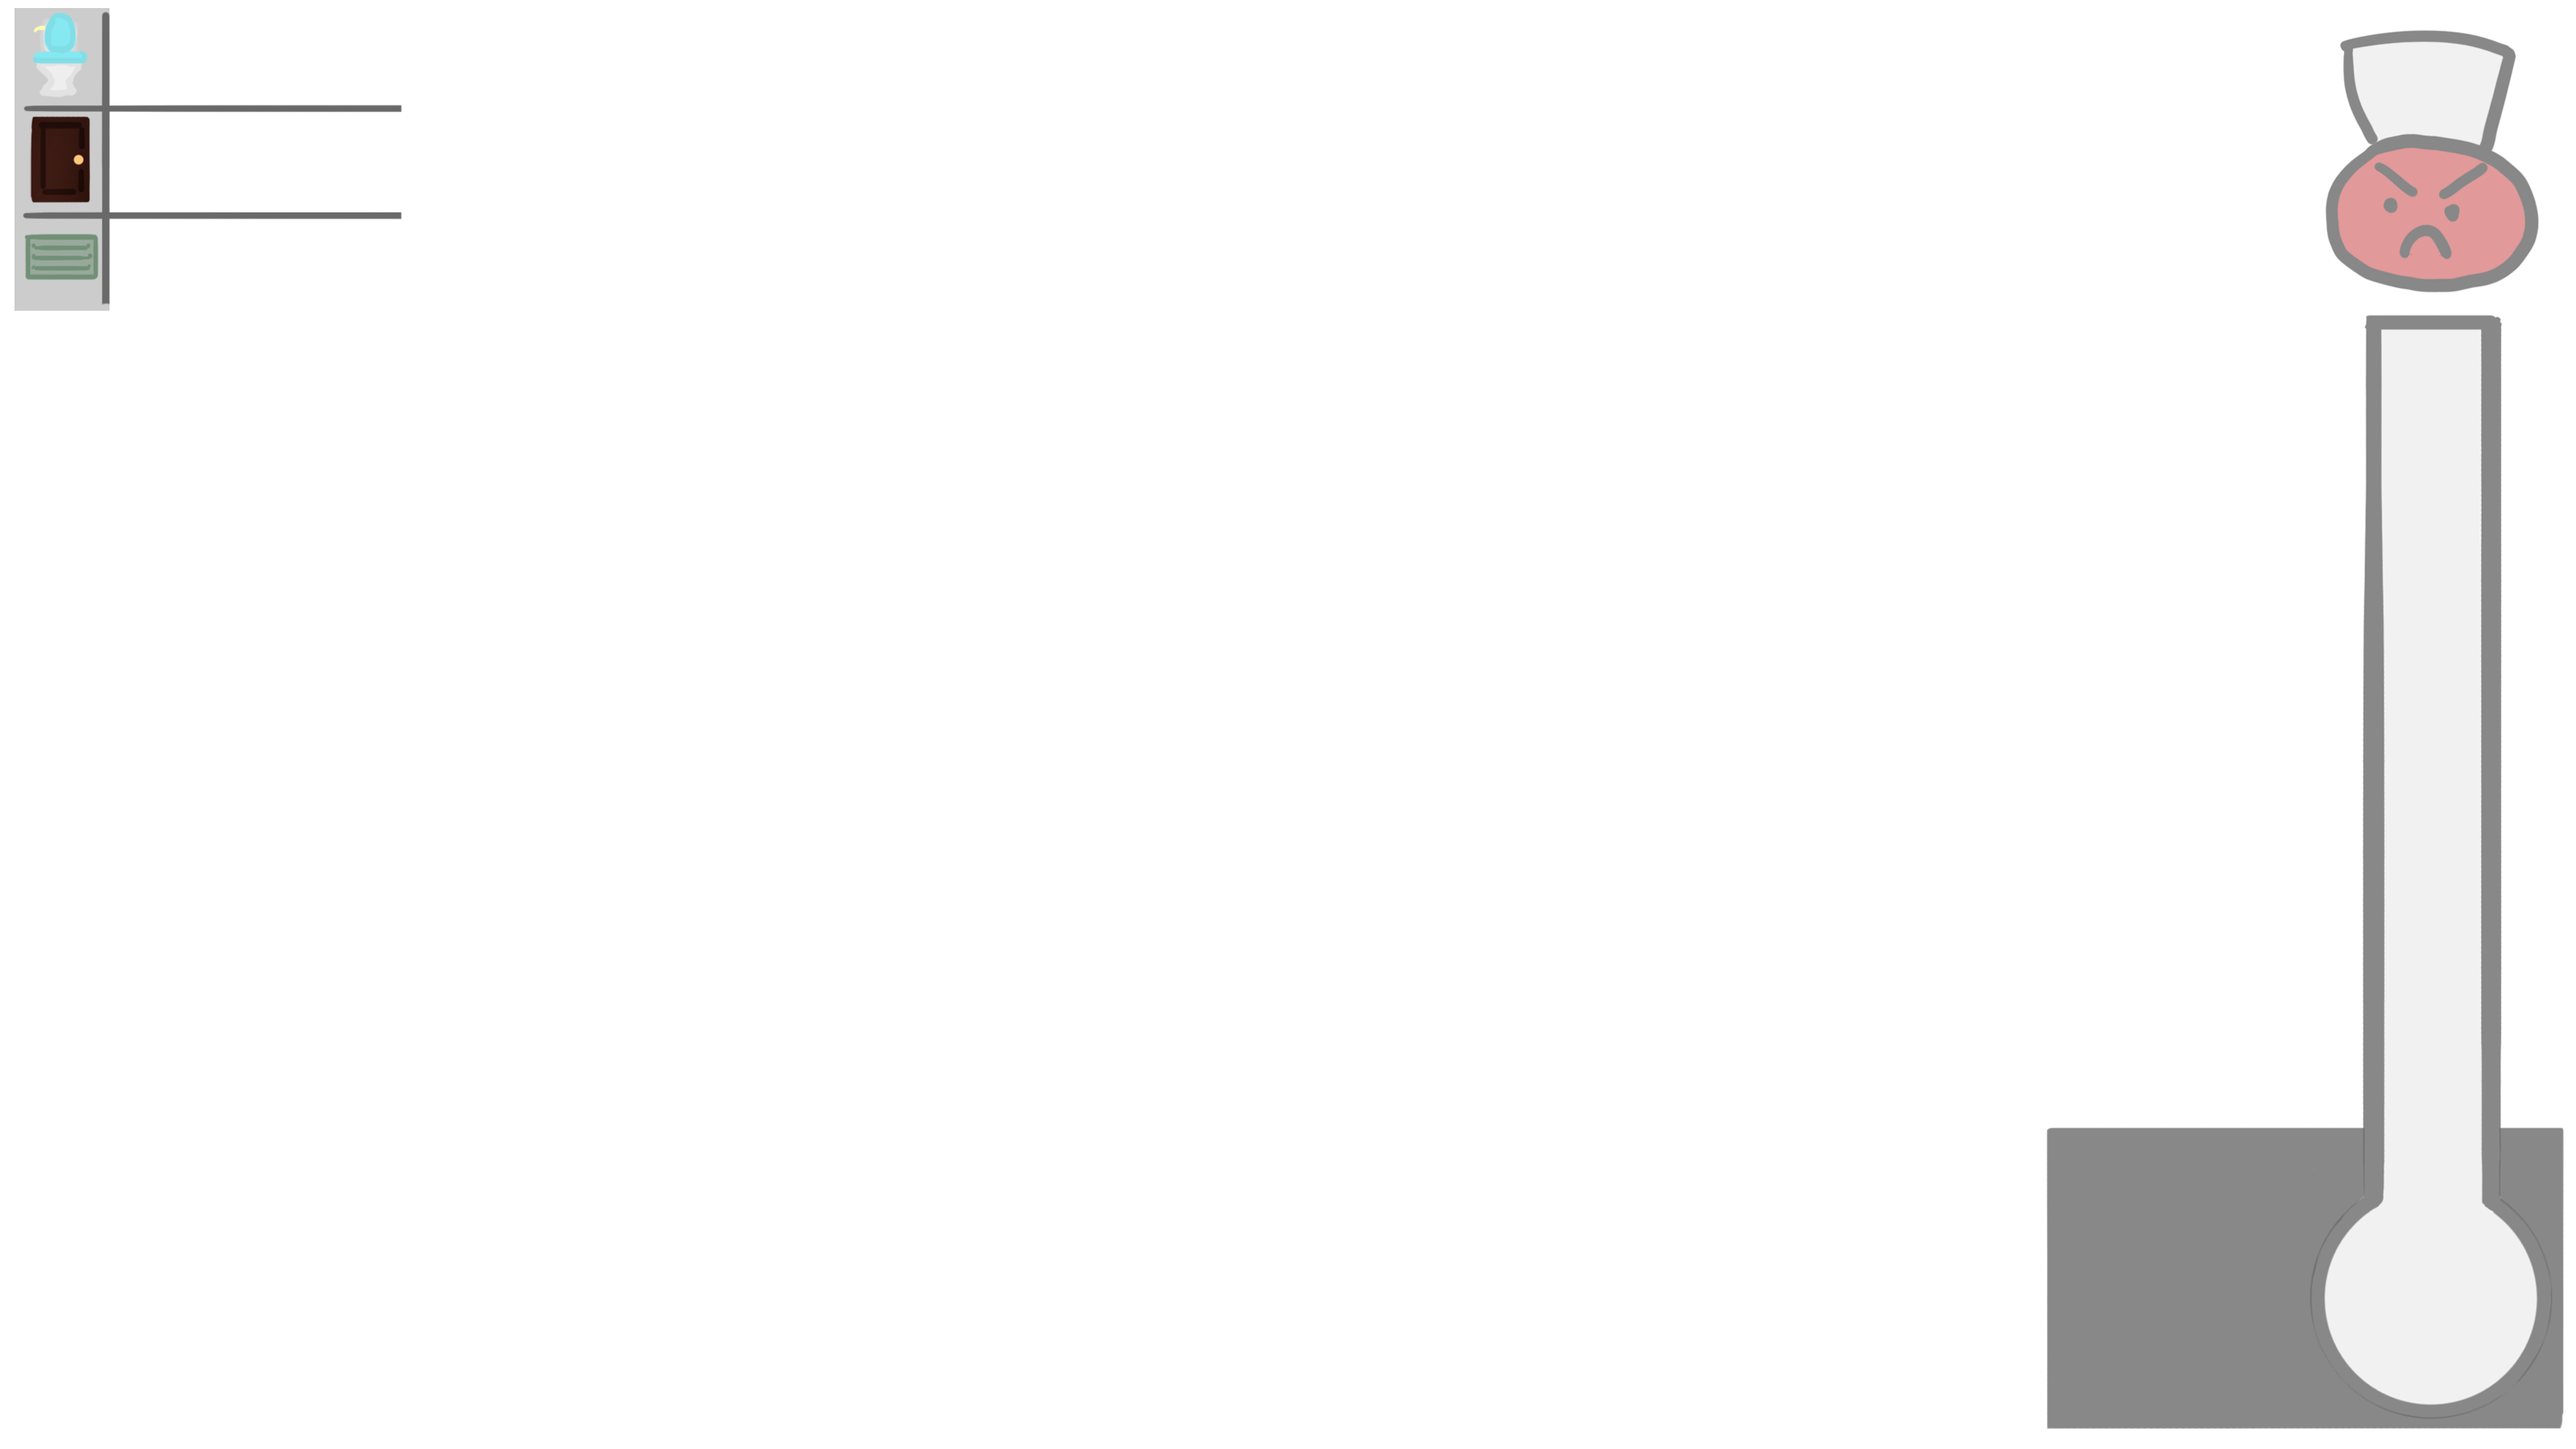
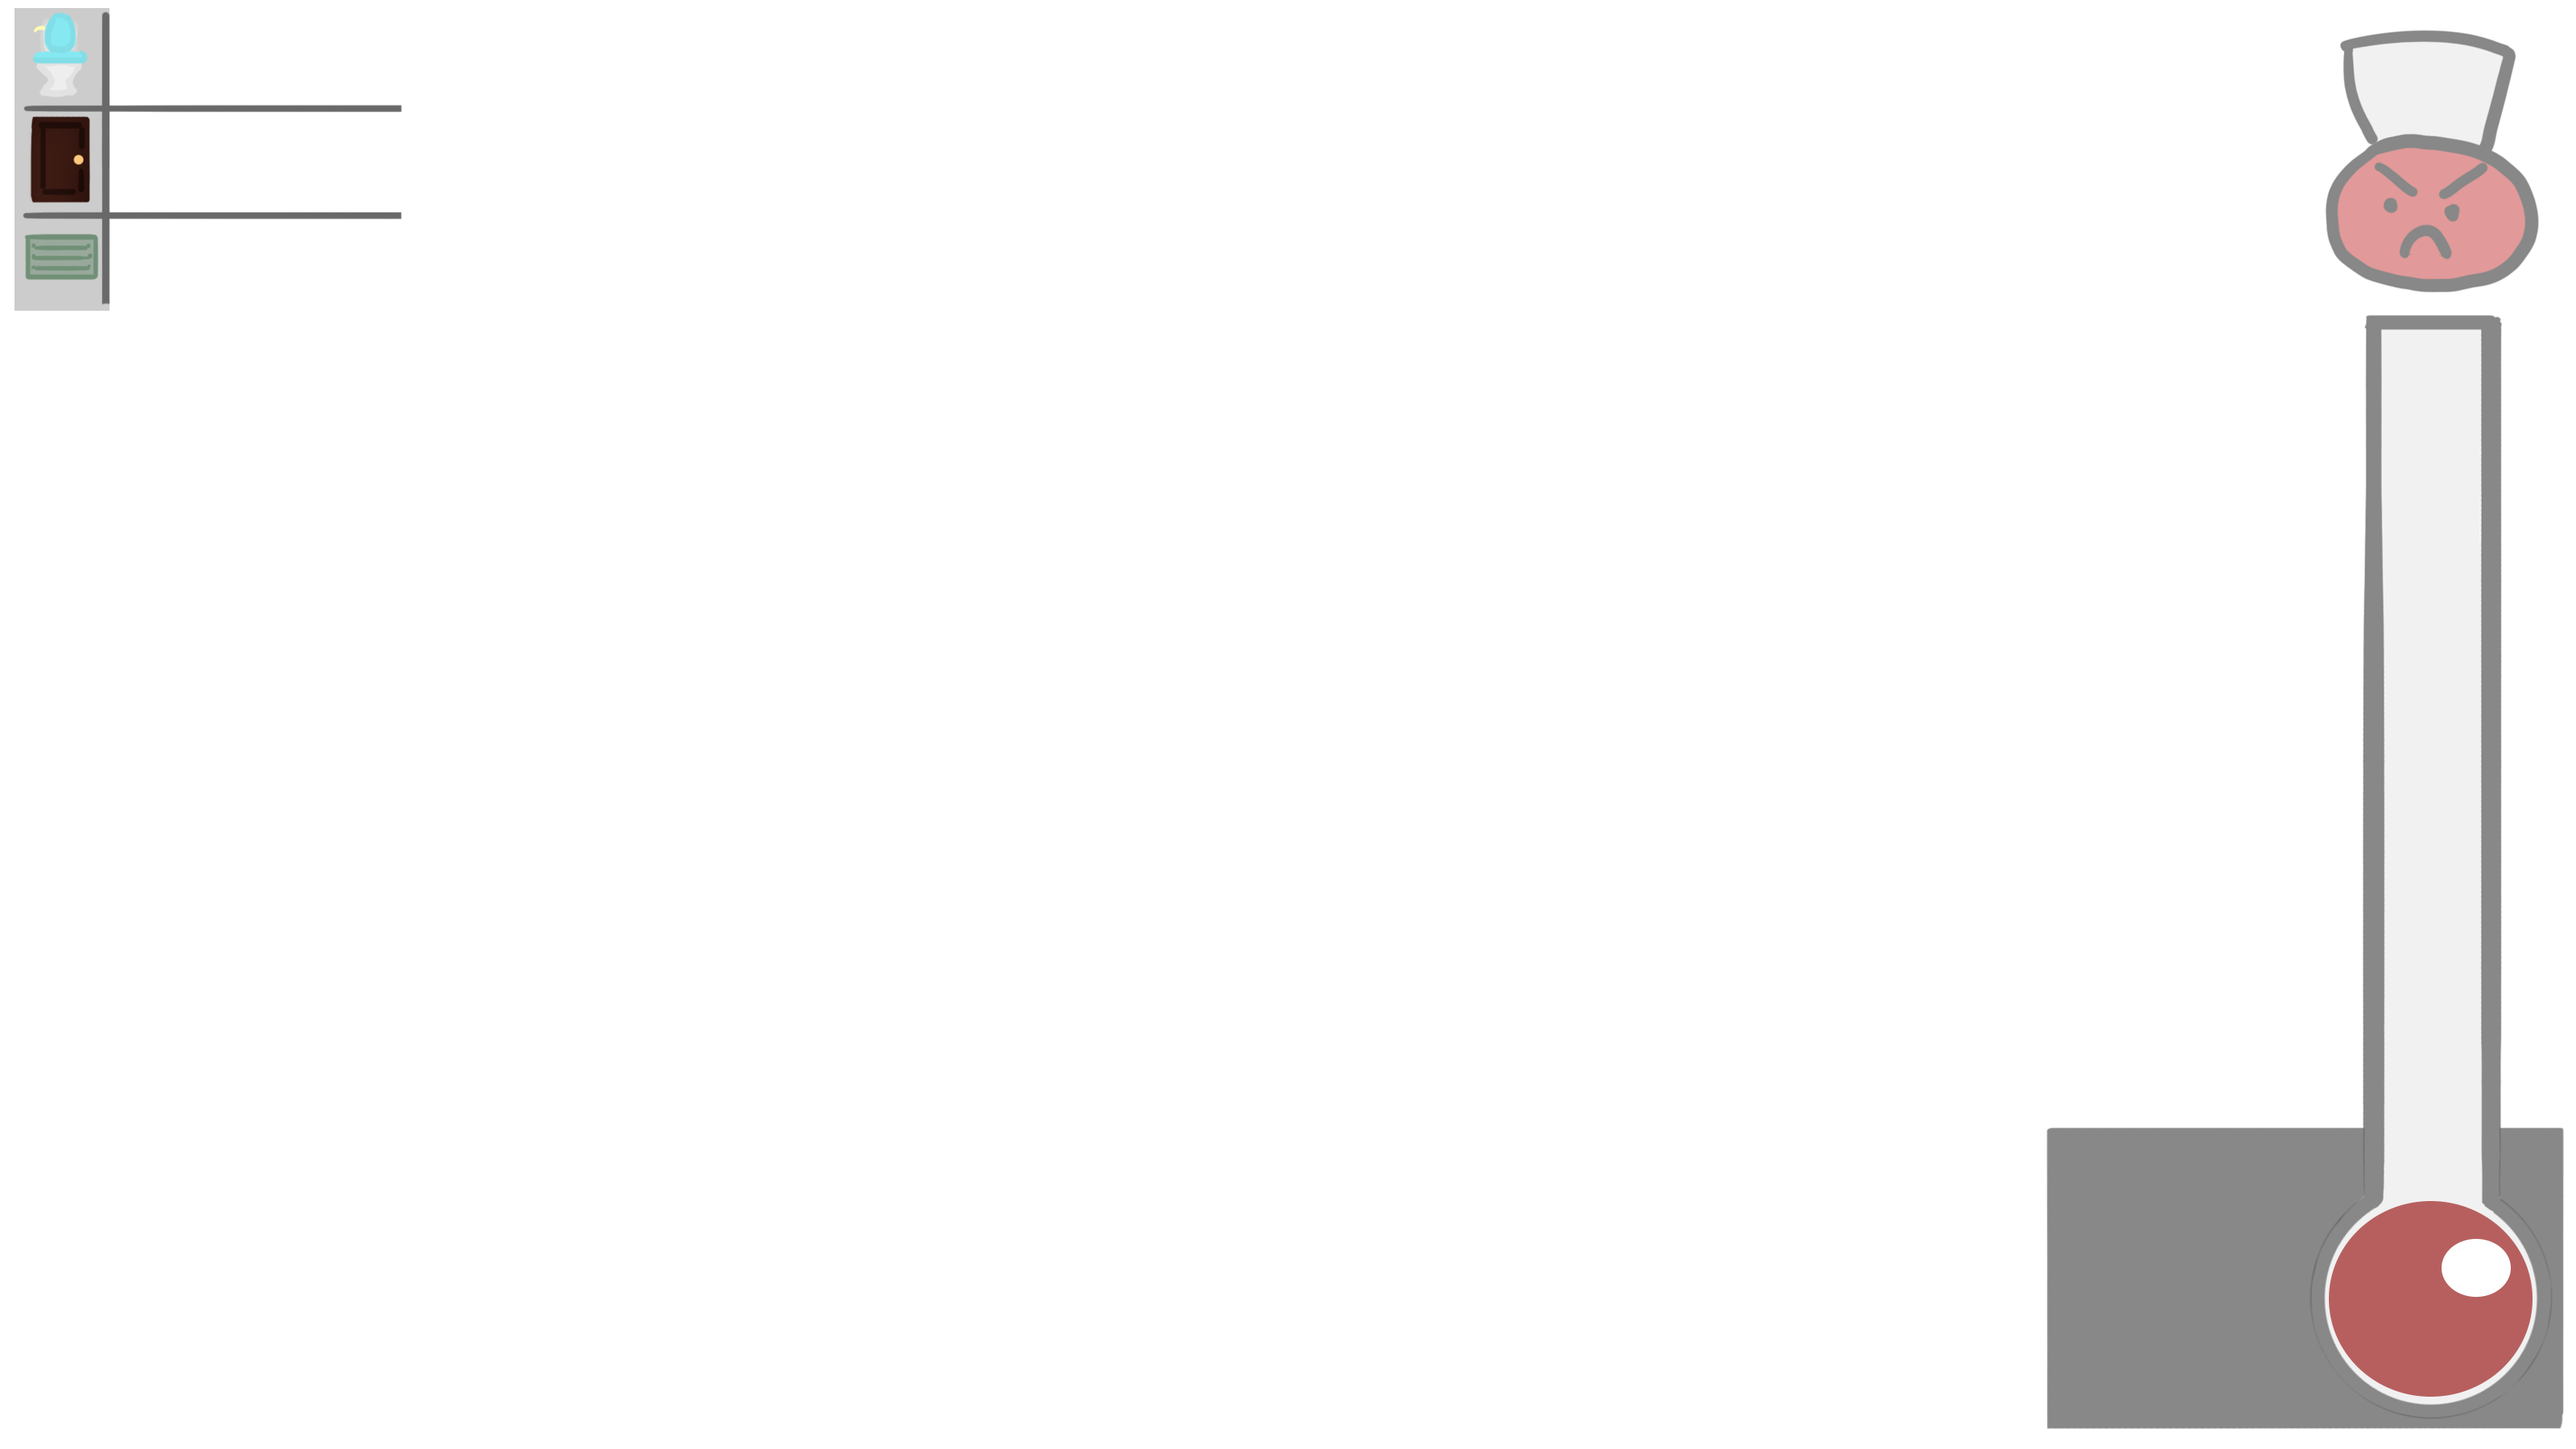
UI now updates on all items, has item prompts. Jail, Box, and Net prompts are bugged

Changed region(s): [[0.9062, 0.8089, 1.0, 0.9644]]

diff --git a/graphics/GraphicsClient/UICanvas.h b/graphics/GraphicsClient/UICanvas.h
@@ -1,7 +1,7 @@
 
 #include "UIObject.h"
 
-#define NUM_ITEMS 42
+#define NUM_ITEMS 52
 #define CANVAS_PATH    "../Canvas/"
 
 #define CANVAS_MDL_PATH		(CANVAS_PATH "canvas.fbx")
@@ -27,7 +27,9 @@
 #define YELLOW_SCREWDRIVER_ITEM_TEX (CANVAS_PATH "yellowScrewdriverItem.png")
 #define APPLE_ITEM_TEX (CANVAS_PATH "appleItem.png")
 #define ORANGE_ITEM_TEX (CANVAS_PATH "orangeItem.png")
-#define BANANA_ITEM_TEX (CANVAS_PATH "bananaItem.png")
+#define BANANA_YELLOW_ITEM_TEX (CANVAS_PATH "bananaItemYellow.png")
+#define BANANA_GREEN_ITEM_TEX (CANVAS_PATH "bananaItemGreen.png")
+#define BANANA_BLACK_ITEM_TEX (CANVAS_PATH "bananaItemBlack.png")
 #define GOALS_TEX (CANVAS_PATH "goals.png")
 #define YELLOW_KEY_GOAL_INCOMPLETE_TEX (CANVAS_PATH "yellowKeyGoalIncomplete.png")
 #define BLUE_KEY_GOAL_INCOMPLETE_TEX (CANVAS_PATH "blueKeyGoalIncomplete.png")
@@ -47,6 +49,15 @@
 #define PLUNGER_GOAL_COMPLETE_TEX (CANVAS_PATH "plungerGoalComplete.png")
 #define ROPE_GOAL_COMPLETE_TEX (CANVAS_PATH "ropeGoalComplete.png")
 #define TOILET_PAPER_GOAL_COMPLETE_TEX (CANVAS_PATH "toiletPaperGoalComplete.png")
+#define PROMPT_JAIL_RESCUE_TEX (CANVAS_PATH "promptRescueMate.png")
+#define PROMPT_SWING_NET_TEX (CANVAS_PATH "promptSwingNet.png")
+#define PROMPT_BOX_SEARCH_TEX (CANVAS_PATH "promptSearchItem.png")
+#define PROMPT_GREEN_BANANA_TEX (CANVAS_PATH "powerup_greenbanana.png")
+#define PROMPT_YELLOW_BANANA_TEX (CANVAS_PATH "powerup_yellowbanana.png")
+#define PROMPT_BLACK_BANANA_TEX (CANVAS_PATH "powerup_blackbanana.png")
+#define PROMPT_APPLE_TEX (CANVAS_PATH "powerup_apple.png")
+#define PROMPT_ORANGE_TEX (CANVAS_PATH "powerup_orange.png")
+
 
 #ifndef UICANVAS_H
 #define UICANVAS_H
@@ -75,7 +86,7 @@ public:
 		YELLOW_SCREWDRIVER_ITEM = 19,
 		APPLE_ITEM = 20,
 		ORANGE_ITEM = 21,
-		BANANA_ITEM = 22,
+		BANANA_YELLOW_ITEM = 22,
 		GOALS = 23,
 		YELLOW_KEY_GOAL_INCOMPLETE = 24,
 		BLUE_KEY_GOAL_INCOMPLETE = 25,
@@ -94,8 +105,17 @@ public:
         TOILET_PAPER_GOAL_INCOMPLETE = 38,
         PLUNGER_GOAL_COMPLETE = 39,
         ROPE_GOAL_COMPLETE = 40,
-        TOILET_PAPER_GOAL_COMPLETE = 41
-
+        TOILET_PAPER_GOAL_COMPLETE = 41,
+		PROMPT_JAIL_RESCUE = 42,
+		PROMPT_SWING_NET = 43,
+		PROMPT_BOX_SEARCH = 44,
+		PROMPT_GREEN_BANANA = 45,
+		PROMPT_YELLOW_BANANA = 46,
+		PROMPT_BLACK_BANANA = 47,
+		PROMPT_ORANGE = 48,
+		PROMPT_APPLE = 49,
+		BANANA_GREEN_ITEM = 50,
+		BANANA_BLACK_ITEM = 51,
 	};
 	void draw(glm::mat4 * V, glm::mat4 * P, glm::mat4 model);
 	void setAngerRatio(float newAngerRatio);

diff --git a/graphics/GraphicsClient/InGameGraphicsEngine.cpp b/graphics/GraphicsClient/InGameGraphicsEngine.cpp
@@ -1175,6 +1175,14 @@ void updateUIElements(GameData * gameData) {
 		}
 	}
 	else {
+		//disable prompts unless item is held
+		uiCanvas->setVisible(UICanvas::PROMPT_GREEN_BANANA, false);
+		uiCanvas->setVisible(UICanvas::PROMPT_YELLOW_BANANA, false);
+		uiCanvas->setVisible(UICanvas::PROMPT_BLACK_BANANA, false);
+		uiCanvas->setVisible(UICanvas::PROMPT_APPLE, false);
+		uiCanvas->setVisible(UICanvas::PROMPT_ORANGE, false);
+
+
 		if (currPlayer->getInventory() == ItemModelType::toiletPaper) {
 			uiCanvas->setItem(UICanvas::TOILET_PAPER_ITEM);
 		}
@@ -1207,19 +1215,57 @@ void updateUIElements(GameData * gameData) {
 		}
 		else if (currPlayer->getInventory() == ItemModelType::apple) {
 			uiCanvas->setItem(UICanvas::APPLE_ITEM);
+
+			uiCanvas->setVisible(UICanvas::PROMPT_APPLE, true);
 		}
 		else if (currPlayer->getInventory() == ItemModelType::orange) {
 			uiCanvas->setItem(UICanvas::ORANGE_ITEM);
+			uiCanvas->setVisible(UICanvas::PROMPT_ORANGE, true);
 		}
 		else if (currPlayer->getInventory() == ItemModelType::bananaPerfect) {
-			uiCanvas->setItem(UICanvas::BANANA_ITEM);
+			uiCanvas->setItem(UICanvas::BANANA_YELLOW_ITEM);
+			uiCanvas->setVisible(UICanvas::PROMPT_YELLOW_BANANA, true);
+		}
+		else if (currPlayer->getInventory() == ItemModelType::bananaGreen) {
+			uiCanvas->setItem(UICanvas::BANANA_GREEN_ITEM);
+			uiCanvas->setVisible(UICanvas::PROMPT_GREEN_BANANA, true);
+		}
+		else if (currPlayer->getInventory() == ItemModelType::bananaVeryRipe) {
+			uiCanvas->setItem(UICanvas::BANANA_BLACK_ITEM);
+			uiCanvas->setVisible(UICanvas::PROMPT_BLACK_BANANA, true);
 		}
 		else {
 			uiCanvas->removeItems();
 		}
+
+		//set goals
+
+		//set prompts
+		if (gameData->getTile(currPlayer->getLocation())->getTileType() == TileType::JAIL && 
+			gameData->getJailTile(currPlayer->getLocation())->getCapturedAnimal() != -1) {
+			uiCanvas->setVisible(UICanvas::PROMPT_JAIL_RESCUE, true);
+		}
+		else {
+			uiCanvas->setVisible(UICanvas::PROMPT_JAIL_RESCUE, false);
+		}
+
+		if (currPlayer->isChef()) {
+			uiCanvas->setVisible(UICanvas::PROMPT_SWING_NET, true);
+		}
+		else {
+			uiCanvas->setVisible(UICanvas::PROMPT_SWING_NET, false);
+		}
+
+		if (gameData->getTile(currPlayer->getLocation())->getTileType() == TileType::BOX){
+			uiCanvas->setVisible(UICanvas::PROMPT_BOX_SEARCH, true);
+		}
+		else {
+			uiCanvas->setVisible(UICanvas::PROMPT_BOX_SEARCH, false);
+		}
+
 	}
 
-	//update Goals
+
 }
 
 void InGameGraphicsEngine::IdleCallback()

diff --git a/graphics/GraphicsClient/UICanvas.cpp b/graphics/GraphicsClient/UICanvas.cpp
@@ -47,8 +47,12 @@ UICanvas::UICanvas(GLuint shaderProgram) {
 	visibleItems[APPLE_ITEM] = false;
 	uiItems[ORANGE_ITEM] = new UIObject(ORANGE_ITEM_TEX);
 	visibleItems[ORANGE_ITEM] = false;
-	uiItems[BANANA_ITEM] = new UIObject(BANANA_ITEM_TEX);
-	visibleItems[BANANA_ITEM] = false;
+	uiItems[BANANA_YELLOW_ITEM] = new UIObject(BANANA_YELLOW_ITEM_TEX);
+	visibleItems[BANANA_YELLOW_ITEM] = false;
+	uiItems[BANANA_GREEN_ITEM] = new UIObject(BANANA_GREEN_ITEM_TEX);
+	visibleItems[BANANA_GREEN_ITEM] = false;
+	uiItems[BANANA_BLACK_ITEM] = new UIObject(BANANA_BLACK_ITEM_TEX);
+	visibleItems[BANANA_BLACK_ITEM] = false;
 	uiItems[GOALS] = new UIObject(GOALS_TEX);
 	visibleItems[GOALS] = false;
 	uiItems[YELLOW_KEY_GOAL_INCOMPLETE] = new UIObject(YELLOW_KEY_GOAL_INCOMPLETE_TEX);
@@ -87,7 +91,22 @@ UICanvas::UICanvas(GLuint shaderProgram) {
 	visibleItems[TOILET_PAPER_GOAL_INCOMPLETE] = true;
 	uiItems[TOILET_PAPER_GOAL_COMPLETE] = new UIObject(TOILET_PAPER_GOAL_COMPLETE_TEX);
 	visibleItems[TOILET_PAPER_GOAL_COMPLETE] = false;
-
+	uiItems[PROMPT_JAIL_RESCUE] = new UIObject(PROMPT_JAIL_RESCUE_TEX);
+	visibleItems[PROMPT_JAIL_RESCUE] = false;
+	uiItems[PROMPT_SWING_NET] = new UIObject(PROMPT_SWING_NET_TEX);
+	visibleItems[PROMPT_SWING_NET] = false;
+	uiItems[PROMPT_BOX_SEARCH] = new UIObject(PROMPT_BOX_SEARCH_TEX);
+	visibleItems[PROMPT_BOX_SEARCH] = false;
+	uiItems[PROMPT_GREEN_BANANA] = new UIObject(PROMPT_GREEN_BANANA_TEX);
+	visibleItems[PROMPT_GREEN_BANANA] = false;
+	uiItems[PROMPT_YELLOW_BANANA] = new UIObject(PROMPT_YELLOW_BANANA_TEX);
+	visibleItems[PROMPT_YELLOW_BANANA] = false;
+	uiItems[PROMPT_BLACK_BANANA] = new UIObject(PROMPT_BLACK_BANANA_TEX);
+	visibleItems[PROMPT_BLACK_BANANA] = false;
+	uiItems[PROMPT_ORANGE] = new UIObject(PROMPT_ORANGE_TEX);
+	visibleItems[PROMPT_ORANGE] = false;
+	uiItems[PROMPT_APPLE] = new UIObject(PROMPT_APPLE_TEX);
+	visibleItems[PROMPT_APPLE] = false;
 }
 
 void UICanvas::setItem(UIType item) {
@@ -111,7 +130,9 @@ void UICanvas::removeItems() {
 	visibleItems[YELLOW_SCREWDRIVER_ITEM] = false;
 	visibleItems[APPLE_ITEM] = false;
 	visibleItems[ORANGE_ITEM] = false;
-	visibleItems[BANANA_ITEM] = false;
+	visibleItems[BANANA_GREEN_ITEM] = false;
+	visibleItems[BANANA_YELLOW_ITEM] = false;
+	visibleItems[BANANA_BLACK_ITEM] = false;
 }
 
 UICanvas::~UICanvas() {

diff --git a/network/ClientNetwork.h b/network/ClientNetwork.h
@@ -9,7 +9,7 @@
 // server address info (modify desktop ip as needed)
 #define DESKTOP_IP "128.54.70.11"
 #define LOCAL_HOST "127.0.0.1"
-#define SERVER_IP_ADDRESS DESKTOP_IP
+#define SERVER_IP_ADDRESS LOCAL_HOST
 // size of our buffer
 #define DEFAULT_BUFLEN 512
 // port to connect sockets through 
